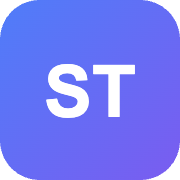
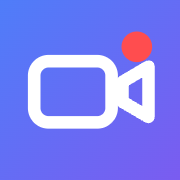
Add files via upload

diff --git a/index.html b/index.html
@@ -10,6 +10,9 @@
 <helmet>
 <link rel="manifest" href="manifest.webmanifest">
 <link rel="apple-touch-icon" href="icon-180.png">
+<link rel="icon" href="icon.svg" type="image/svg+xml">
+<link rel="icon" href="favicon-32.png" sizes="32x32" type="image/png">
+<link rel="icon" href="favicon-16.png" sizes="16x16" type="image/png">
 <meta name="apple-mobile-web-app-capable" content="yes">
 <meta name="apple-mobile-web-app-status-bar-style" content="default">
 <meta name="apple-mobile-web-app-title" content="Stream Team">
@@ -20,6 +23,10 @@
 html, body { margin: 0; background: #f2f3f8; color: #17181c; font-family: -apple-system, BlinkMacSystemFont, system-ui, "Segoe UI", Roboto, "Helvetica Neue", sans-serif; -webkit-tap-highlight-color: transparent; -webkit-font-smoothing: antialiased; font-size: 15px; line-height: 1.45; }
 *, *::before, *::after { box-sizing: border-box; }
 button, input, select, textarea { font: inherit; color: inherit; }
+/* iOS Safari zooms the whole page when a focused field is under 16px.
+   Every field in this app is smaller than that by design, so force the
+   floor here and let the 16px only apply to the text the user types. */
+input, select, textarea { font-size: 16px !important; -webkit-text-size-adjust: 100%; }
 a { color: #3b6ef6; text-decoration: none; }
 a:hover { color: #2f56c4; }
 :focus { outline: none; }
@@ -35,7 +42,7 @@ input::placeholder { color: #a2a5b3; }
   <header style="position:sticky;top:0;z-index:40;background:rgba(242,243,248,0.82);backdrop-filter:blur(16px)">
     <div style="max-width:760px;margin:0 auto;display:flex;align-items:center;gap:10px;padding:10px 16px">
       <div style="display:flex;align-items:center;gap:9px;margin-right:auto">
-        <span style="width:30px;height:30px;border-radius:9px;background:linear-gradient(135deg,#4f7df9,#7a5cf0);display:grid;place-items:center;color:#fff">{{ ic.video }}</span>
+        <span style="width:31px;height:31px;flex:none;border-radius:9px;background:linear-gradient(135deg,#4f7df9,#7a5cf0);display:grid;place-items:center;color:#fff">{{ ic.mark }}</span>
         <span style="font-size:17px;font-weight:700;letter-spacing:-0.01em">{{ brand }}</span>
       </div>
       <div style="display:flex;background:#e6e8f0;border-radius:999px;padding:3px">
@@ -199,20 +206,35 @@ input::placeholder { color: #a2a5b3; }
 
     <sc-if value="{{ vStats }}" hint-placeholder-val="{{ false }}">
       <section data-screen-label="Stats">
-        <div style="font-size:12.5px;font-weight:700;letter-spacing:0.07em;text-transform:uppercase;color:#8a8d99;margin:20px 4px 8px">{{ statsTitle }}</div>
+        <sc-if value="{{ hasStatYears }}" hint-placeholder-val="{{ false }}">
+          <div style="display:flex;gap:8px;margin-top:14px;flex-wrap:wrap">
+            <sc-for list="{{ statYearPills }}" as="y" hint-placeholder-count="2">
+              <button type="button" onClick="{{ y.onTap }}" style="{{ y.style }}">{{ y.label }}</button>
+            </sc-for>
+          </div>
+        </sc-if>
+        <div style="font-size:12.5px;font-weight:700;letter-spacing:0.07em;text-transform:uppercase;color:#8a8d99;margin:18px 4px 8px">{{ statsTitle }}</div>
         <div style="background:#fff;border-radius:18px;box-shadow:0 1px 3px rgba(23,24,28,0.06);overflow:hidden">
           <sc-for list="{{ statRows }}" as="st" hint-placeholder-count="6">
-            <div style="{{ st.rowStyle }}">
+            <button type="button" onClick="{{ st.onTap }}" style="{{ st.rowStyle }}">
               <span style="{{ st.avStyle }}">{{ st.initial }}</span>
-              <span style="flex:1;min-width:0">
-                <span style="display:flex;align-items:center;gap:8px">
-                  <span style="font-size:15px;font-weight:600;flex:1">{{ st.name }}</span>
-                  <span style="font-size:12px;color:#8a8d99">{{ st.counts }}</span>
-                  <span style="background:#e8edfd;color:#2f56c4;border-radius:999px;padding:2px 9px;font-size:11.5px;font-weight:700">{{ st.plan }}</span>
-                </span>
-                <span style="display:block;height:4px;border-radius:999px;background:#eef0f6;margin-top:7px"><span style="{{ st.barStyle }}"></span></span>
+              <span style="flex:1;min-width:0;display:flex;flex-direction:column;gap:2px">
+                <span style="font-size:15px;font-weight:600">{{ st.name }}</span>
+                <span style="font-size:12px;color:#8a8d99">{{ st.summary }}</span>
               </span>
-            </div>
+              <span style="{{ st.balanceStyle }}">{{ st.balance }}</span>
+              <span style="{{ st.chevStyle }}">{{ ic.chev }}</span>
+            </button>
+            <sc-if value="{{ st.open }}" hint-placeholder-val="{{ false }}">
+              <div style="background:#f7f8fc;padding:4px 14px 12px 59px;display:flex;flex-direction:column">
+                <sc-for list="{{ st.detail }}" as="d" hint-placeholder-count="7">
+                  <div style="display:flex;align-items:baseline;gap:10px;padding:5px 0;border-top:1px solid #eceef5">
+                    <span style="flex:1;font-size:12.5px;color:#8a8d99">{{ d.k }}</span>
+                    <span style="font-size:13px;font-weight:600;text-align:right">{{ d.v }}</span>
+                  </div>
+                </sc-for>
+              </div>
+            </sc-if>
           </sc-for>
         </div>
         <p style="margin:10px 6px;font-size:11.5px;color:#a2a5b3">{{ L.statsNote }}</p>
@@ -498,6 +520,9 @@ input::placeholder { color: #a2a5b3; }
           </div>
           <div style="font-size:12.5px;color:#2f56c4;font-weight:600;margin-top:8px">{{ afSummary }}</div>
         </sc-if>
+        <sc-if value="{{ afErr }}" hint-placeholder-val="{{ false }}">
+          <div style="background:#fdebec;border-radius:12px;padding:10px 13px;margin-top:12px;font-size:12.5px;color:#b4262b;font-weight:600;text-wrap:pretty">{{ afErr }}</div>
+        </sc-if>
         <div style="display:flex;gap:8px;margin-top:15px">
           <button type="button" onClick="{{ onAfGen }}" disabled="{{ afGenDisabled }}" style="{{ afGenStyle }}">{{ L.generate }}</button>
           <button type="button" onClick="{{ onAfApply }}" disabled="{{ afApplyDisabled }}" style="flex:1;border:none;background:#3b6ef6;color:#fff;border-radius:999px;padding:12px;font-size:14px;font-weight:700;cursor:pointer">{{ applyLabel }}</button>
@@ -536,7 +561,8 @@ class Component extends DCLogic {
     view: 'sched', admin: false, pin: '',
     dlg: null, toast: '', showPast: false, isDesktop: false,
     loginPin: '', loginErr: '', tick: 0,
-    year: '', monthLimit: 6, remDraft: null
+    year: '', monthLimit: 6, remDraft: null,
+    statsYear: '', openStat: ''
   };
   PAGE = 6;
 
@@ -707,7 +733,12 @@ class Component extends DCLogic {
       emptyPast: 'Nothing upcoming in {y}. Turn on Show past to see it.',
       emptyYear: 'Nothing scheduled in {y} yet. Use Auto-fill in Admin to plan it.',
       addCalendar: 'Subscribe in calendar', upcoming: 'Upcoming', noUpcoming: 'No upcoming turns.', thisYear: 'done this year',
-      season: 'Season', done: 'done', ahead: 'ahead', statsNote: 'Plan = target share of the year\u2019s services. Bar shows assigned vs plan.',
+      season: 'Season', done: 'done', ahead: 'ahead',
+      statsNote: 'Tap a name for the detail. Actual % is the share of the year they actually hold; planned % is their target.',
+      ofTotal: '{a} of {b} services', onTrack: 'On track', overBy: '+{n}% over', underBy: '{n}% under',
+      dDone: 'Served so far', dAhead: 'Still upcoming', dConfirmed: 'Confirmed', dSplit: 'Morning / evening',
+      dNext: 'Next turn', dLast: 'Last served', dShare: 'Share of the year',
+      actual: 'actual', planned: 'planned', noTarget: 'No target set',
       members: 'Members', addMember: 'Add', edit: 'Edit',
       autofill: 'Auto-fill', autofillSub: 'Spread services by each member\u2019s share', afSub: 'Assigns Sunday morning + evening services across the range.',
       afTargets: 'Share of services', afTotal: 'Total', afMustBe: 'must add up to 100%', afBalance: 'Balance to 100%',
@@ -740,7 +771,12 @@ class Component extends DCLogic {
       emptyPast: 'В {y} предстоящих служб нет. Включите «Показать прошедшие».',
       emptyYear: 'На {y} пока ничего не запланировано. Используйте автозаполнение в разделе «Админ».',
       addCalendar: 'Подписаться в календаре', upcoming: 'Предстоящие', noUpcoming: 'Предстоящих смен нет.', thisYear: 'сделано в этом году',
-      season: 'Сезон', done: 'сделано', ahead: 'впереди', statsNote: 'План — целевая доля всех служб за год. Полоса: назначено против плана.',
+      season: 'Сезон', done: 'сделано', ahead: 'впереди',
+      statsNote: 'Нажмите на имя для подробностей. Факт — реальная доля служб за год, план — целевая.',
+      ofTotal: '{a} из {b} служб', onTrack: 'В норме', overBy: '+{n}% выше', underBy: '{n}% ниже',
+      dDone: 'Отслужено', dAhead: 'Предстоит', dConfirmed: 'Подтверждено', dSplit: 'Утро / вечер',
+      dNext: 'Следующая смена', dLast: 'Последняя смена', dShare: 'Доля за год',
+      actual: 'факт', planned: 'план', noTarget: 'Цель не задана',
       members: 'Участники', addMember: 'Добавить', edit: 'Изменить',
       autofill: 'Автозаполнение', autofillSub: 'Распределить службы по доле каждого', afSub: 'Назначает утренние и вечерние службы в диапазоне.',
       afTargets: 'Доля служб', afTotal: 'Всего', afMustBe: 'должно быть 100%', afBalance: 'Выровнять до 100%',
@@ -998,6 +1034,19 @@ class Component extends DCLogic {
     return e('svg', { viewBox: '0 0 24 24', width: size, height: size, fill: 'none', stroke: 'currentColor', strokeWidth: 2, strokeLinecap: 'round', strokeLinejoin: 'round', style: { flex: 'none' } }, P[name]);
   }
 
+  // The brand mark: a video camera with a red LIVE dot. Same artwork as the
+  // favicon and the home-screen icon, drawn white so it sits on the tile.
+  brandMark(size) {
+    const e = React.createElement;
+    return e('svg', { viewBox: '0 0 100 100', width: size, height: size, style: { flex: 'none', display: 'block' } }, [
+      e('g', { key: 'a', fill: 'none', stroke: '#fff', strokeWidth: 7, strokeLinejoin: 'round', strokeLinecap: 'round' }, [
+        e('rect', { key: 1, x: 19, y: 34, width: 43, height: 34, rx: 8 }),
+        e('path', { key: 2, d: 'M68 45.5 82.5 37v28l-14.5-8.5z' })
+      ]),
+      e('circle', { key: 'b', cx: 76, cy: 26, r: 8.5, fill: '#ff4d4f' })
+    ]);
+  }
+
   partChip(s, L) {
     if (s.special) return { text: L.special, style: { background: '#f3e8fd', color: '#7c3aed', borderRadius: '999px', padding: '2px 9px', fontSize: '10.5px', fontWeight: 700, whiteSpace: 'nowrap' } };
     if (s.part === 'M') return { text: L.morning, style: { background: '#fef3e2', color: '#92600a', borderRadius: '999px', padding: '2px 9px', fontSize: '10.5px', fontWeight: 700, whiteSpace: 'nowrap' } };
@@ -1181,20 +1230,69 @@ class Component extends DCLogic {
     });
     const myDone = inYear.filter(s => s.member === me && this.dtOf(s) <= now).length;
 
-    // stats — scoped to the selected year, not every year in the table
-    const totalYear = inYear.length || 1;
+    // ---- stats: its own year picker, one expandable row per member ----
+    const sYear = years.indexOf(st.statsYear) >= 0 ? st.statsYear : defYear;
+    const sList = list.filter(s => s.date.slice(0, 4) === sYear);
+    const sTotal = sList.length;
+    const statYearPills = years.length > 1 ? years.map(y => ({
+      key: y, label: y,
+      onTap: () => this.setState({ statsYear: y, openStat: '' }),
+      style: {
+        border: 'none', borderRadius: '999px', padding: '7px 16px',
+        fontSize: '13.5px', fontWeight: 700, cursor: 'pointer',
+        background: y === sYear ? '#3b6ef6' : '#fff',
+        color: y === sYear ? '#fff' : '#6d6f7a',
+        boxShadow: y === sYear ? 'none' : '0 1px 3px rgba(23,24,28,0.06)'
+      }
+    })) : [];
+
     const statRows = db.members.map(m => {
-      const done = inYear.filter(s => s.member === m.id && this.dtOf(s) <= now).length;
-      const ahead = inYear.filter(s => s.member === m.id && this.dtOf(s) > now).length;
-      const actual = Math.round((done + ahead) / totalYear * 100);
-      const w = m.pct ? Math.min(100, Math.round(actual / m.pct * 100)) : 0;
+      const mine = sList.filter(s => s.member === m.id);
+      const done = mine.filter(s => this.dtOf(s) <= now);
+      const ahead = mine.filter(s => this.dtOf(s) > now);
+      const mornings = mine.filter(s => s.part === 'M').length;
+      const evenings = mine.filter(s => s.part === 'E').length;
+      const specials = mine.filter(s => !!s.special).length;
+      const confirmed = done.filter(s => s.confirmed).length;
+      const nx = ahead[0];
+      const lastDone = done[done.length - 1];
+      const actual = sTotal ? Math.round(mine.length / sTotal * 100) : 0;
+      const target = m.pct || 0;
+      // Fair share is a comparison, so say it in words rather than drawing a
+      // bar whose 100% meant something different from the % beside it.
+      const diff = actual - target;
+      const balance = !target ? '—'
+        : Math.abs(diff) <= 1 ? L.onTrack
+        : diff > 0 ? L.overBy.replace('{n}', diff) : L.underBy.replace('{n}', -diff);
+      const open = st.openStat === m.id;
       return {
         key: m.id, initial: m.name[0], name: this.nameOf(db, m.id, lang),
-        counts: done + ' ' + L.done + ' · ' + ahead + ' ' + L.ahead,
-        plan: m.pct + '%', avStyle: this.av(db, m.id, 32),
-        barStyle: { display: 'block', height: '4px', borderRadius: '999px', width: w + '%', background: 'linear-gradient(90deg,#4f7df9,#7a5cf0)' }
+        avStyle: this.av(db, m.id, 34),
+        total: mine.length, summary: L.ofTotal.replace('{a}', mine.length).replace('{b}', sTotal),
+        pctLine: target ? (actual + '% / ' + target + '%') : (actual + '%'),
+        balance,
+        balanceStyle: {
+          background: !target || Math.abs(diff) <= 1 ? '#e6f6ed' : (diff > 0 ? '#fef3e2' : '#e8edfd'),
+          color: !target || Math.abs(diff) <= 1 ? '#2f9e64' : (diff > 0 ? '#92600a' : '#2f56c4'),
+          borderRadius: '999px', padding: '3px 10px', fontSize: '11.5px', fontWeight: 700, whiteSpace: 'nowrap'
+        },
+        open, chevStyle: { color: '#c6c9d4', display: 'inline-flex', transform: open ? 'rotate(90deg)' : 'none', transition: 'transform .18s' },
+        onTap: () => this.setState({ openStat: open ? '' : m.id }),
+        detail: [
+          { key: 'd1', k: L.dDone, v: String(done.length) },
+          { key: 'd2', k: L.dAhead, v: String(ahead.length) },
+          { key: 'd3', k: L.dConfirmed, v: confirmed + ' / ' + done.length },
+          { key: 'd4', k: L.dSplit, v: mornings + ' M · ' + evenings + ' E' + (specials ? ' · ' + specials + ' ' + L.special.toLowerCase() : '') },
+          { key: 'd5', k: L.dNext, v: nx ? (F.mon[new Date(nx.date + 'T12:00').getMonth()] + ' ' + new Date(nx.date + 'T12:00').getDate() + ' · ' + this.t12(nx.time)) : '—' },
+          { key: 'd6', k: L.dLast, v: lastDone ? (F.mon[new Date(lastDone.date + 'T12:00').getMonth()] + ' ' + new Date(lastDone.date + 'T12:00').getDate()) : '—' },
+          { key: 'd7', k: L.dShare, v: target ? (actual + '% ' + L.actual + ' · ' + target + '% ' + L.planned) : L.noTarget }
+        ],
+        _n: mine.length
       };
-    }).map((r, i) => { r.rowStyle = { display: 'flex', alignItems: 'center', gap: '11px', padding: '12px 14px', borderTop: i ? '1px solid #eef0f4' : 'none' }; return r; });
+    }).sort((a, b) => b._n - a._n).map((r, i) => {
+      r.rowStyle = { display: 'flex', alignItems: 'center', gap: '11px', padding: '12px 14px', width: '100%', border: 'none', background: r.open ? '#f7f8fc' : 'none', cursor: 'pointer', borderTop: i ? '1px solid #eef0f4' : 'none', textAlign: 'left' };
+      return r;
+    });
 
     // admin
     const admMembers = db.members.map((m, i) => ({
@@ -1274,7 +1372,7 @@ class Component extends DCLogic {
 
     return {
       L,
-      ic: { video: this.icon('video', 17), cal: this.icon('cal', 18), user: this.icon('user', 18), chart: this.icon('chart', 18), gear: this.icon('gear', 18), send: this.icon('send', 16), check: this.icon('check', 13), plus: this.icon('plus', 15), download: this.icon('download', 15), swap: this.icon('swap', 14), chev: this.icon('chev', 16), lock: this.icon('lock', 18) },
+      ic: { mark: this.brandMark(21), video: this.icon('video', 17), cal: this.icon('cal', 18), user: this.icon('user', 18), chart: this.icon('chart', 18), gear: this.icon('gear', 18), send: this.icon('send', 16), check: this.icon('check', 13), plus: this.icon('plus', 15), download: this.icon('download', 15), swap: this.icon('swap', 14), chev: this.icon('chev', 16), lock: this.icon('lock', 18) },
       brand: (this.props.churchName ?? 'Stream Team'),
       banner, bannerStyle, bannerRetry, onRetry: () => this.load(),
       langEnStyle: segBtn(lang === 'en'), langRuStyle: segBtn(lang === 'ru'),
@@ -1303,7 +1401,7 @@ class Component extends DCLogic {
       heroMine, myRows, noUpcoming: !!meM && myFuture.length === 0,
       doneLine: meM ? myDone + ' ' + L.thisYear : '',
       icsHref: meM ? this.icsFor(db, me) : '',
-      statRows, statsTitle: L.season + ' ' + year,
+      statRows, statsTitle: L.season + ' ' + sYear, statYearPills, hasStatYears: statYearPills.length > 0,
       authed: st.admin, notAuthed: !st.admin,
       loginPin: st.loginPin, loginErr: st.loginErr,
       signinLabel: busyL(L.signin, 'login'),
@@ -1489,12 +1587,39 @@ class Component extends DCLogic {
         if (!afValid || !afSlots) return;
         set({ preview: this.autofillCompute(db, dlg.from, dlg.to, afCounts, !!dlg.ow) });
       },
-      onAfApply: () => {
+      afErr: dlg.afErr || '',
+      onAfApply: async () => {
         const plan = (dlg.preview || []).filter(p => p.member).map(p => ({
           id: p.date + p.part, date: p.date, part: p.part, time: p.time + ':00', member_id: p.member
         }));
         if (!plan.length) return;
-        this.act('autofill', () => this.fn({ action: 'admin_apply_plan', pin: st.pin, plan }));
+        // A whole year is 100+ rows. Send it in batches so one oversized
+        // request can't fail the lot, and keep the dialog open until it
+        // lands — closing it on failure is what made this look like a no-op.
+        this.setState({ busy: 'autofill', dlg: Object.assign({}, this.state.dlg, { afErr: '' }) });
+        const CHUNK = 40;
+        try {
+          let done = 0;
+          for (let i = 0; i < plan.length; i += CHUNK) {
+            const part = plan.slice(i, i + CHUNK);
+            await this.fn({
+              action: 'admin_apply_plan', pin: st.pin, plan: part,
+              silent: i + CHUNK < plan.length,   // announce once, at the end
+              total: plan.length
+            });
+            done += part.length;
+            this.setState({ busy: 'autofill ' + done + '/' + plan.length });
+          }
+          await this.load(true);
+          this.setState({ dlg: null });
+          this.flash('✓ ' + plan.length);
+        } catch (e) {
+          console.error(e);
+          this.setState({
+            busy: '',
+            dlg: Object.assign({}, this.state.dlg, { afErr: (e && e.message) || 'failed' })
+          });
+        }
       },
       dPin: D('pin'), pinNew: dlg.pinNew || '', onPinNew: fld('pinNew'),
       onPinSave: () => {
